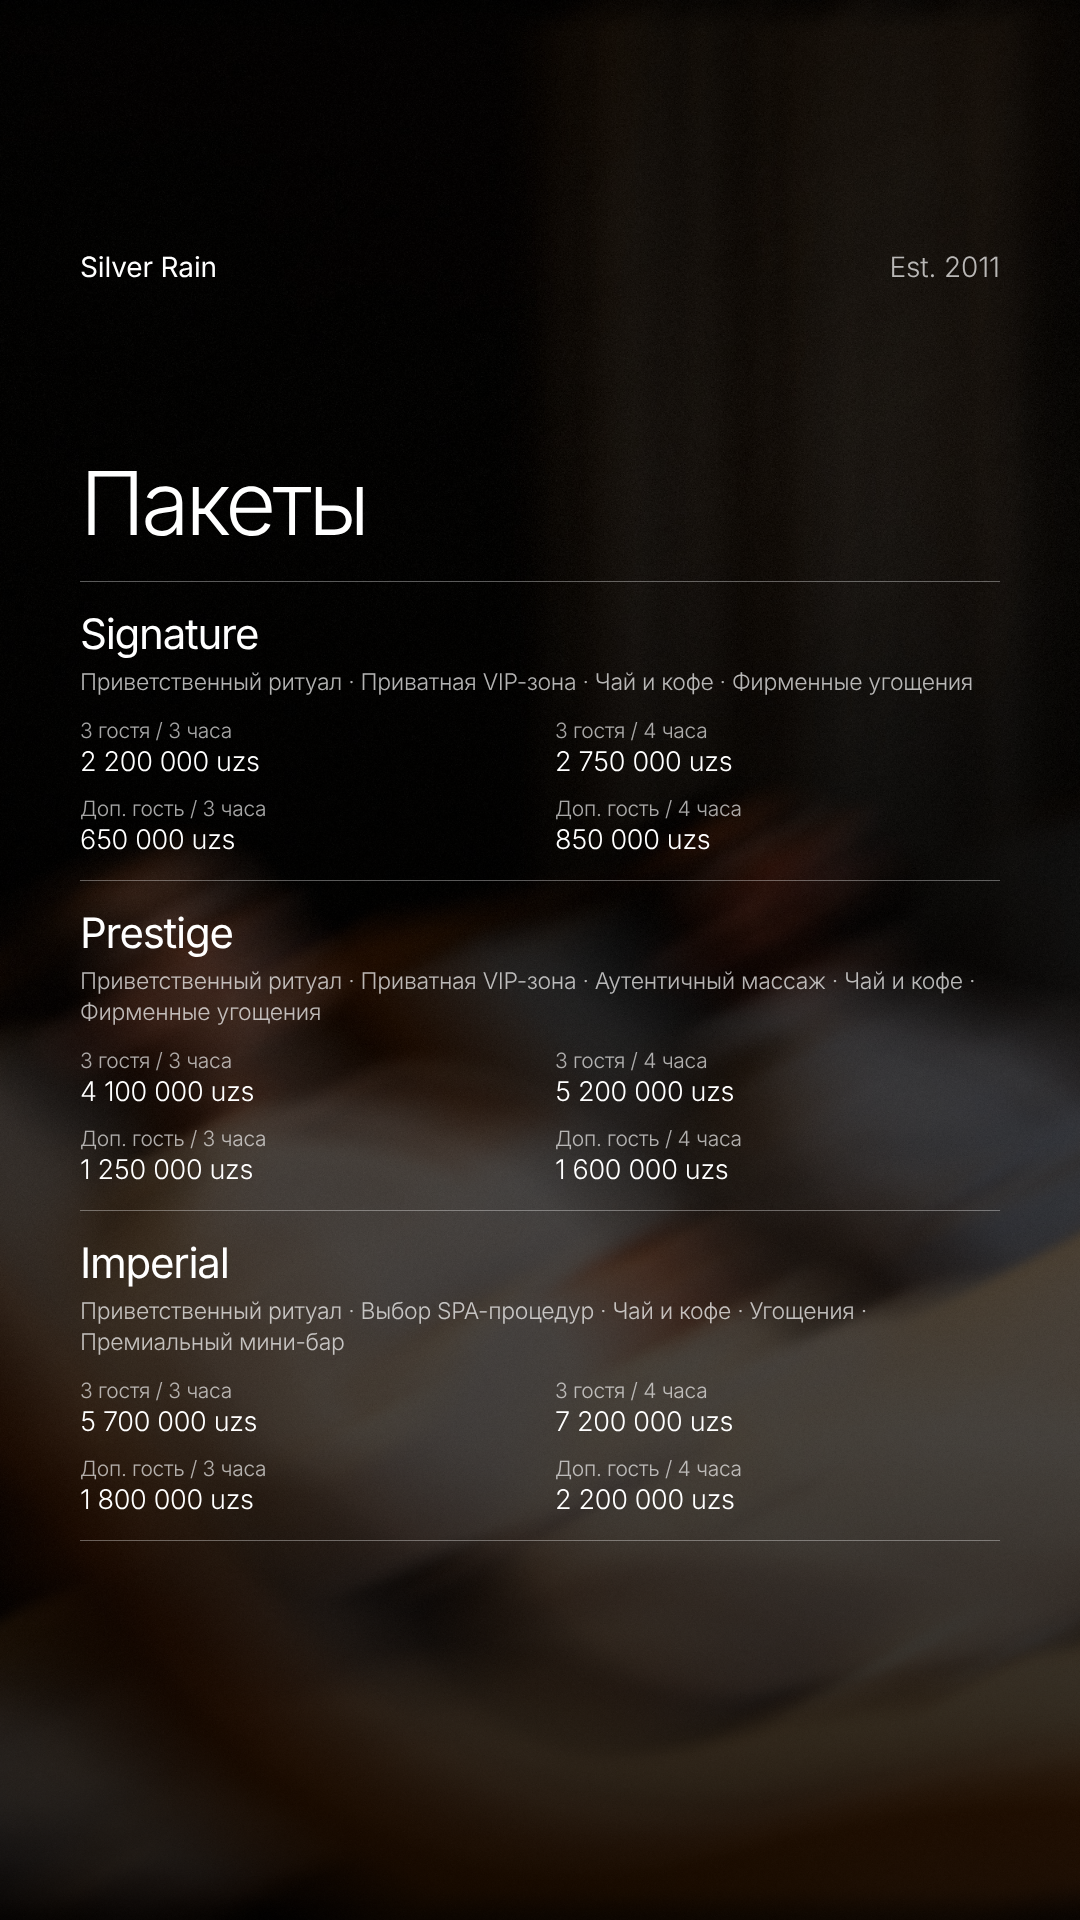
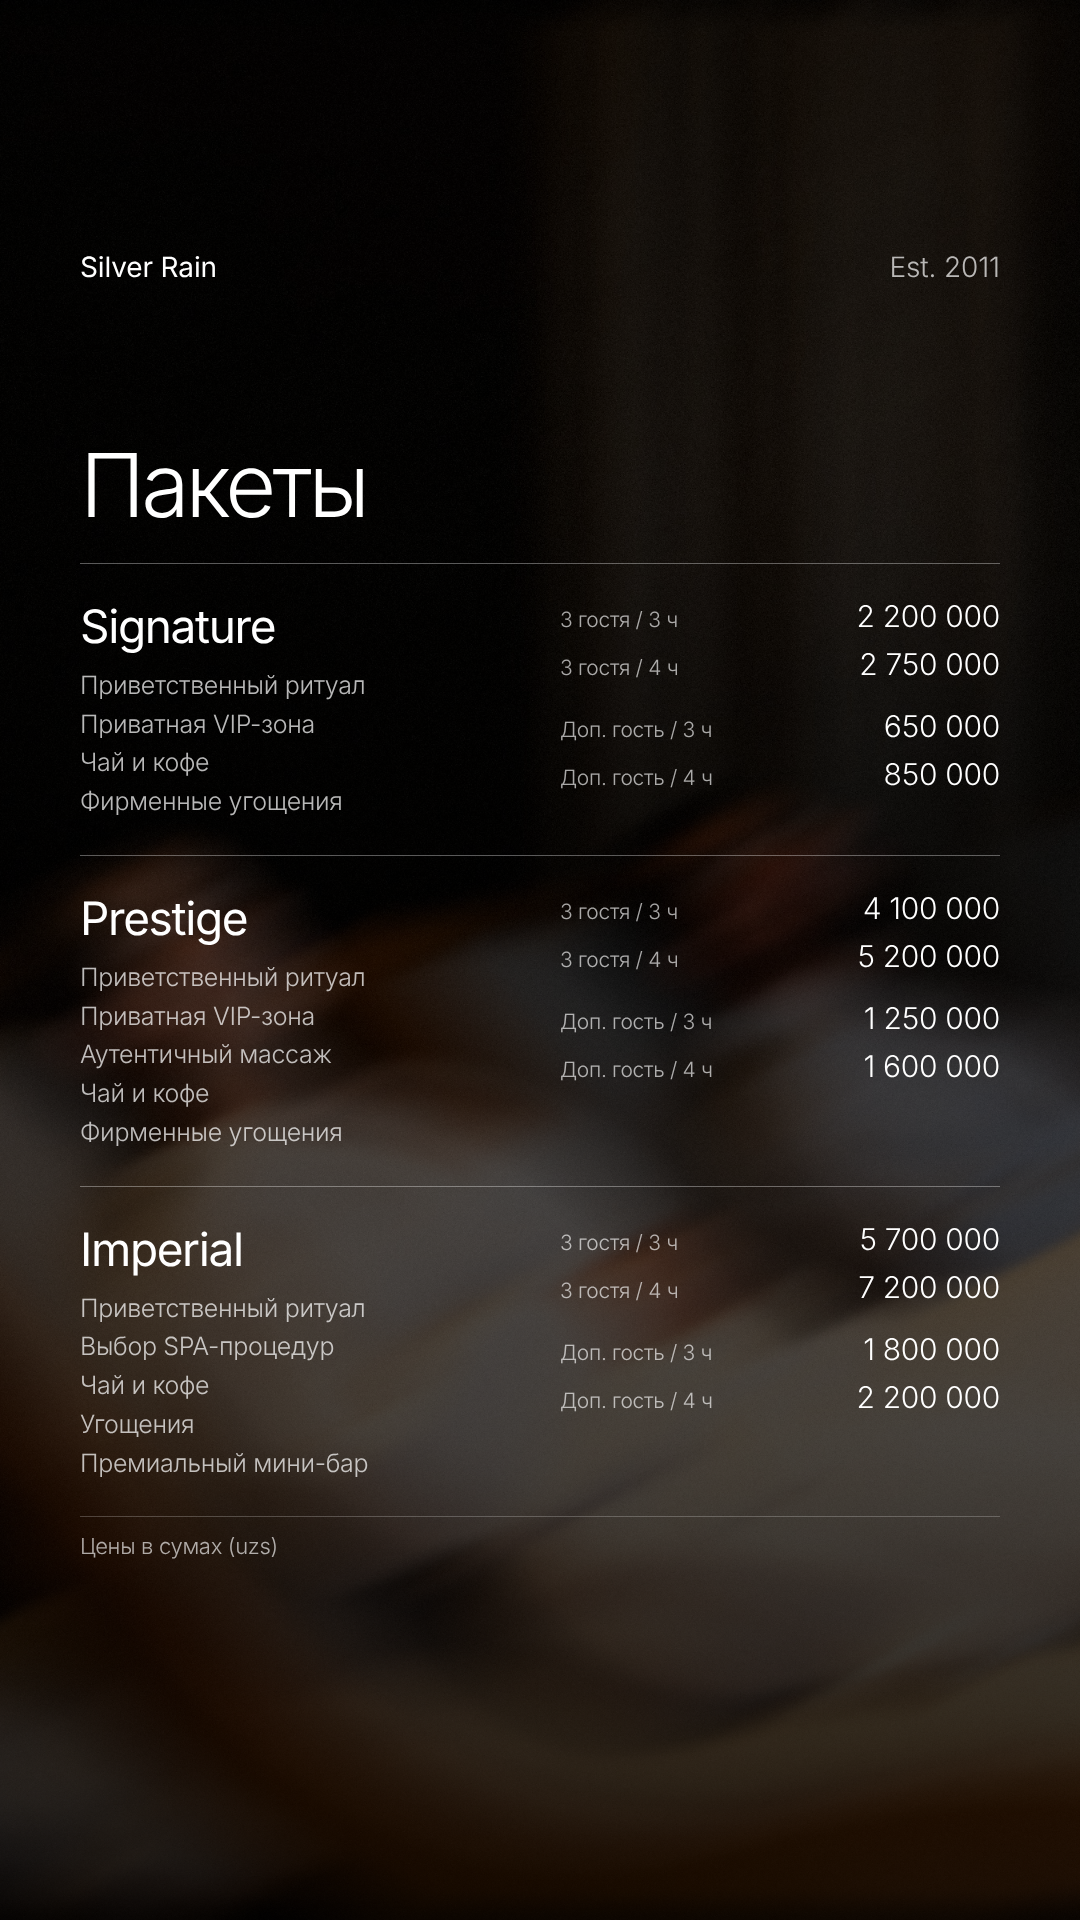
Packages story: text left, prices right
Claude-Session: https://claude.ai/code/session_016hDDYxXRao7raJTtdDbdUH

diff --git a/stories-silverrain/menu-design/pk2.html b/stories-silverrain/menu-design/pk2.html
@@ -1,0 +1,42 @@
+<!doctype html><html><head><meta charset="utf-8"><style>
+*{margin:0;padding:0;box-sizing:border-box}
+.story{position:relative;width:1080px;height:1920px;overflow:hidden;color:#fff;font-family:"SF Pro Display","Inter Display",sans-serif;-webkit-font-smoothing:antialiased;letter-spacing:-.02em;background:url(couple-blur.jpg) center/cover}
+.story::after{content:"";position:absolute;inset:0;background:linear-gradient(180deg,rgba(0,0,0,.6) 0%,rgba(0,0,0,.5) 25%,rgba(0,0,0,.66) 50%,rgba(0,0,0,.72) 75%,rgba(0,0,0,.85) 100%)}
+.z{position:absolute;z-index:2}
+.top{top:250px;left:80px;right:80px;display:flex;justify-content:space-between;font-size:28px;font-weight:400;letter-spacing:-.005em}
+.top .d{opacity:.7;font-weight:300}
+.wrap{position:absolute;z-index:2;left:80px;right:80px;top:330px;bottom:250px;display:flex;flex-direction:column;justify-content:center}
+.sec{font-size:100px;font-weight:300;letter-spacing:-.045em;line-height:1;margin-bottom:46px}
+.ln{border-top:1px solid rgba(255,255,255,.35)}
+.nm{font-size:52px;font-weight:400;letter-spacing:-.03em;margin:30px 0 10px}
+.t{display:grid;grid-template-columns:1fr 1fr;border-top:1px solid rgba(255,255,255,.35)}
+.t>div{padding:18px 0;font-size:37px;font-weight:300;border-bottom:1px solid rgba(255,255,255,.35)}
+.t>div:nth-child(2n){border-left:1px solid rgba(255,255,255,.35);padding-left:28px}
+.t.c>div{text-align:center;padding-left:0!important}
+ul.b.sm li{font-size:34px;padding:9px 0 9px 40px}ul.b.sm li::before{top:26px}
+ul.b{list-style:none;padding:16px 0 20px}ul.b li{font-size:39px;font-weight:300;padding:12px 0 12px 40px;position:relative;line-height:1.22;color:rgba(255,255,255,.92)}
+ul.b li::before{content:"";position:absolute;left:6px;top:32px;width:6px;height:6px;border-radius:50%;background:#fff;opacity:.8}
+.big{font-size:96px;font-weight:300;letter-spacing:-.04em;line-height:1}
+.hd{font-size:24px;font-weight:300;opacity:.75}
+.sub{font-size:36px;font-weight:300;opacity:.7;margin-bottom:26px}
+.rn{font-size:88px;font-weight:300;letter-spacing:-.045em;line-height:1.02;margin-bottom:12px}
+.pl{font-size:30px;opacity:.75}
+</style></head><body><section class="story"><div class="z top"><div>Silver Rain</div><div class="d">Est. 2011</div></div><div class="wrap"><div class="sec" style="font-size:88px;margin-bottom:34px">Пакеты</div><div style="display:grid;grid-template-columns:1fr 1fr;column-gap:40px;padding:34px 0;border-top:1px solid rgba(255,255,255,.35);align-items:start">
+<div><div style="font-size:46px;font-weight:400;letter-spacing:-.03em;margin-bottom:12px">Signature</div><div style="font-size:25px;font-weight:300;opacity:.72;line-height:1.55"><div>Приветственный ритуал</div><div>Приватная VIP-зона</div><div>Чай и кофе</div><div>Фирменные угощения</div></div></div>
+<div style="font-size:30px;font-weight:300;line-height:1.2">
+<div style="display:flex;justify-content:space-between;align-items:baseline"><span style="font-size:21px;opacity:.65">3 гостя / 3 ч</span><span>2 200 000</span></div>
+<div style="display:flex;justify-content:space-between;align-items:baseline;margin-top:12px"><span style="font-size:21px;opacity:.65">3 гостя / 4 ч</span><span>2 750 000</span></div>
+<div style="display:flex;justify-content:space-between;align-items:baseline;margin-top:26px"><span style="font-size:21px;opacity:.65">Доп. гость / 3 ч</span><span>650 000</span></div>
+<div style="display:flex;justify-content:space-between;align-items:baseline;margin-top:12px"><span style="font-size:21px;opacity:.65">Доп. гость / 4 ч</span><span>850 000</span></div></div></div><div style="display:grid;grid-template-columns:1fr 1fr;column-gap:40px;padding:34px 0;border-top:1px solid rgba(255,255,255,.35);align-items:start">
+<div><div style="font-size:46px;font-weight:400;letter-spacing:-.03em;margin-bottom:12px">Prestige</div><div style="font-size:25px;font-weight:300;opacity:.72;line-height:1.55"><div>Приветственный ритуал</div><div>Приватная VIP-зона</div><div>Аутентичный массаж</div><div>Чай и кофе</div><div>Фирменные угощения</div></div></div>
+<div style="font-size:30px;font-weight:300;line-height:1.2">
+<div style="display:flex;justify-content:space-between;align-items:baseline"><span style="font-size:21px;opacity:.65">3 гостя / 3 ч</span><span>4 100 000</span></div>
+<div style="display:flex;justify-content:space-between;align-items:baseline;margin-top:12px"><span style="font-size:21px;opacity:.65">3 гостя / 4 ч</span><span>5 200 000</span></div>
+<div style="display:flex;justify-content:space-between;align-items:baseline;margin-top:26px"><span style="font-size:21px;opacity:.65">Доп. гость / 3 ч</span><span>1 250 000</span></div>
+<div style="display:flex;justify-content:space-between;align-items:baseline;margin-top:12px"><span style="font-size:21px;opacity:.65">Доп. гость / 4 ч</span><span>1 600 000</span></div></div></div><div style="display:grid;grid-template-columns:1fr 1fr;column-gap:40px;padding:34px 0;border-top:1px solid rgba(255,255,255,.35);align-items:start">
+<div><div style="font-size:46px;font-weight:400;letter-spacing:-.03em;margin-bottom:12px">Imperial</div><div style="font-size:25px;font-weight:300;opacity:.72;line-height:1.55"><div>Приветственный ритуал</div><div>Выбор SPA-процедур</div><div>Чай и кофе</div><div>Угощения</div><div>Премиальный мини-бар</div></div></div>
+<div style="font-size:30px;font-weight:300;line-height:1.2">
+<div style="display:flex;justify-content:space-between;align-items:baseline"><span style="font-size:21px;opacity:.65">3 гостя / 3 ч</span><span>5 700 000</span></div>
+<div style="display:flex;justify-content:space-between;align-items:baseline;margin-top:12px"><span style="font-size:21px;opacity:.65">3 гостя / 4 ч</span><span>7 200 000</span></div>
+<div style="display:flex;justify-content:space-between;align-items:baseline;margin-top:26px"><span style="font-size:21px;opacity:.65">Доп. гость / 3 ч</span><span>1 800 000</span></div>
+<div style="display:flex;justify-content:space-between;align-items:baseline;margin-top:12px"><span style="font-size:21px;opacity:.65">Доп. гость / 4 ч</span><span>2 200 000</span></div></div></div><div style="border-top:1px solid rgba(255,255,255,.35);padding-top:16px;font-size:22px;font-weight:300;opacity:.65">Цены в сумах (uzs)</div></div></section></body></html>
